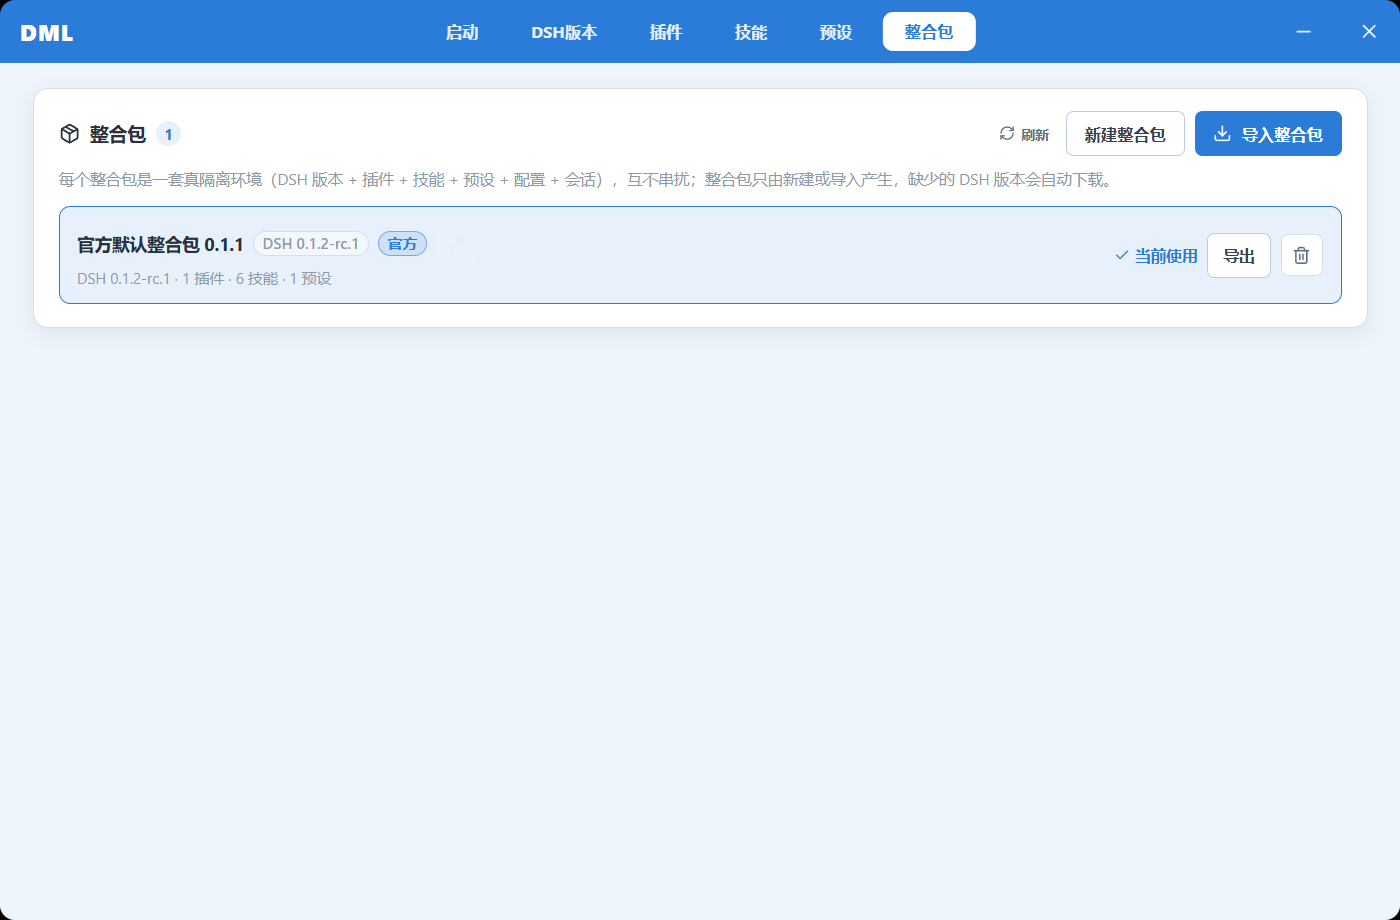
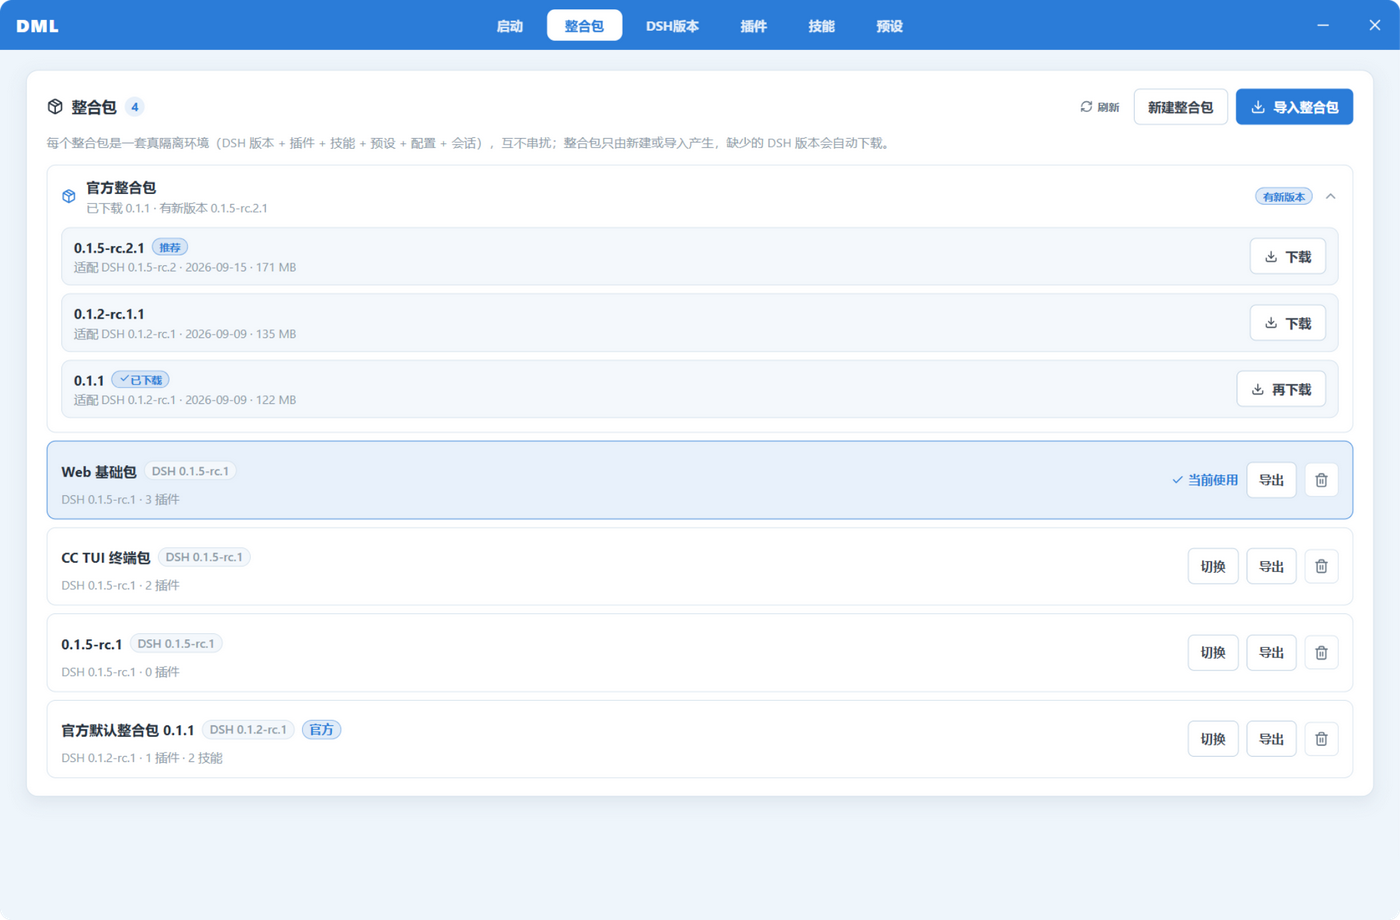
docs: v0.1.3 中英 README 更新（官方包版本流 / 下载进度与换源）+ 重拍截图 + 去掉 QQ 群信息
- 新增 v0.1.3 更新亮点段：官方整合包按版本可选、下载与导入全程可见、
  慢了自己换源、设置页镜像下拉
- 测试徽章 728 → 768；「官方默认整合包」「GitHub 加速」「快速开始」三处
  描述同步到新行为（进度条带速度与来源、导入阶段接着走、按实测速度换源）
- 界面速览重排：重拍整合包页（官方整合包堆叠展开），新增「下载进度」一图
- 中英 README 的「联系与反馈 / Upstream & contact」去掉官方 QQ 群，只留 Issues；
  启动器界面内的群信息已在上一笔提交里清掉

diff --git a/README.md b/README.md
@@ -14,7 +14,7 @@
 [![Build](https://img.shields.io/github/actions/workflow/status/Miyazawai/DSH-Melody-Launcher-Overture/build.yml?branch=main&style=for-the-badge&logo=githubactions&logoColor=white&label=build)](https://github.com/Miyazawai/DSH-Melody-Launcher-Overture/actions/workflows/build.yml)
 [![Platform](https://img.shields.io/badge/Platform-Windows%20x64-0078D6?style=for-the-badge&logo=windows&logoColor=white)](https://github.com/Miyazawai/DSH-Melody-Launcher-Overture/releases)
 [![Upstream](https://img.shields.io/badge/上游-rirko%2Fdsh--melody--launcher-6C7BFF?style=for-the-badge&logo=github&logoColor=white)](https://github.com/rirko/dsh-melody-launcher)
-[![Tests](https://img.shields.io/badge/tests-728%20passing-6E9F18?style=for-the-badge&logo=vitest&logoColor=white)](https://github.com/Miyazawai/DSH-Melody-Launcher-Overture)
+[![Tests](https://img.shields.io/badge/tests-768%20passing-6E9F18?style=for-the-badge&logo=vitest&logoColor=white)](https://github.com/Miyazawai/DSH-Melody-Launcher-Overture)
 
 [![Electron](https://img.shields.io/badge/Electron-43-47848F?style=flat-square&logo=electron&logoColor=white)](https://www.electronjs.org/)
 [![React](https://img.shields.io/badge/React-19-61DAFB?style=flat-square&logo=react&logoColor=black)](https://react.dev/)
@@ -50,13 +50,19 @@
 | 把自己的配置折腾半天分享给朋友 | 导出 = 整个环境打包成 zip，对方导入即可启动 |
 | 开终端、记命令、盯输出 | 一个按钮启动，进程与日志全程托管 |
 
+## v0.1.3 更新亮点
+
+- **官方整合包按版本可选** —— 整合包页顶部多了一个「官方整合包」堆叠入口，展开是所有历史版本（最新版标「推荐」，每行写着它**适配哪个 DSH 版本**与体积）。想装哪个装哪个，同一个版本重复下载会得到「(2)」副本；发现新版本只挂「有新版本」徽标提醒，不会在后台偷偷下几百 MB。
+- **下载全程可见，慢了自己换源** —— 下载时是带速度与来源的进度条（「50% · 3.4 MB/s · 经 gh-proxy.com」），下载完接着显示导入阶段（补装 DSH 运行时、解压一万多个文件），不再有「卡在 100%」的错觉。直连 8 秒无响应、20 秒断流、或速度低于 300KB/s 会**自动切到镜像**，不必再手动折腾代理。
+- **设置页网络更好配** —— 「GitHub 镜像」从裸文本框改成下拉（自动 / gh-proxy.com / ghfast.top / ghproxy.net / 自定义），选「自动」即走上一条的换源逻辑。
+
 ## v0.1.2 更新亮点
 
 - **「检查更新」修好了** —— 此前插件更新面板恒显示「当前为本地开发模式」并拒绝自动更新：启动器把整合包 Profile 的清单名写成了非官方前缀，被插件误判为本地开发链接。现已统一为 DSH 官方命名，**已有整合包会在启动时自动迁移，无需重装**。
 
 ## v0.1.1 更新亮点
 
-- **官方默认整合包** —— 首次启动自动获取导入：DSH 本体 + Web 全家桶界面 + Office 文档技能（Word / Excel / PPT）+ AI 去味写作技能，开箱即用。可以删，删了随时一键「恢复官方整合包」。
+- **官方默认整合包** —— 首次启动自动获取导入：DSH 本体 + Web 全家桶界面 + Office 文档技能（Word / Excel / PPT）+ AI 去味写作技能，开箱即用。可以删，删了在「官方整合包」里一点即可重新下载。
 - **快照式导出 / 导入** —— 把整合包连插件本体、依赖、技能、配置整个打成 zip；导出前自动剔除 API Key、会话记录等个人数据，绝对路径自动改写。**对方导入即可启动，全程不联网重装依赖。**
 - **Office 文档能力** —— 官方包内置 [OfficeCLI](https://github.com/iOfficeAI/OfficeCLI) 技能四件套与引擎本体（随包搬运）：对 AI 说一句「把这季度数据做成汇报 PPT」，就能拿到可继续编辑的 `.pptx` / `.docx` / `.xlsx`。
 - **运行态分段按钮** —— 浏览器页面关掉了？首页大按钮左段停止服务、右段一键重开网页。
@@ -68,22 +74,22 @@
 | --- | --- |
 | **启动页** —— AI 日报全栏目滚动、一键启动、当前整合包快切 | **运行中** —— 左段停止服务，右段一键重开网页 |
 | ![启动页](docs/screenshots/shot-01-home.png) | ![运行态](docs/screenshots/shot-09-running-split.png) |
-| **整合包** —— 官方默认包带「官方」徽标，计数实时探测 | **删除二次确认** —— 点删除变红「确定删除」，说清删什么留什么 |
-| ![整合包](docs/screenshots/shot-02-packs.png) | ![删除确认](docs/screenshots/shot-03-delete-arm.png) |
-| **技能管理** —— 官方包自带 Office 四件套与去味写作，可启停可卸载 | **技能市场** —— 1900+ 技能按分类浏览安装 |
-| ![技能管理](docs/screenshots/shot-05-skills-installed.png) | ![技能市场](docs/screenshots/shot-04-skill-market.png) |
-| **插件** —— 核心组合层受保护，启停不删本体 | **DSH Market** —— 3400+ 精选插件，搜索 / 分类 / 检查更新 |
-| ![插件](docs/screenshots/shot-06-plugins.png) | ![DSH Market](docs/screenshots/shot-08-dsh-market.png) |
-| **DSH 版本** —— 已装与可下载版本一目了然，切换只在整合包页 | |
-| ![DSH 版本](docs/screenshots/shot-07-versions.png) | |
+| **整合包** —— 顶部「官方整合包」堆叠列出所有历史版本，可删可重下 | **下载进度** —— 速度、来源与阶段全程可见，慢了自己换镜像 |
+| ![整合包](docs/screenshots/shot-02-packs.png) | ![下载进度](docs/screenshots/shot-10-official-pack-download.png) |
+| **删除二次确认** —— 点删除变红「确定删除」，说清删什么留什么 | **技能管理** —— 官方包自带 Office 四件套与去味写作，可启停可卸载 |
+| ![删除确认](docs/screenshots/shot-03-delete-arm.png) | ![技能管理](docs/screenshots/shot-05-skills-installed.png) |
+| **技能市场** —— 1900+ 技能按分类浏览安装 | **插件** —— 核心组合层受保护，启停不删本体 |
+| ![技能市场](docs/screenshots/shot-04-skill-market.png) | ![插件](docs/screenshots/shot-06-plugins.png) |
+| **DSH Market** —— 3400+ 精选插件，搜索 / 分类 / 检查更新 | **DSH 版本** —— 已装与可下载版本一目了然，切换只在整合包页 |
+| ![DSH Market](docs/screenshots/shot-08-dsh-market.png) | ![DSH 版本](docs/screenshots/shot-07-versions.png) |
 
 ## 核心特性
 
 ### 官方默认整合包：下载即有
 
-- **首启自动获取** —— 启动器后台核对版本，自动从 GitHub Release 拉取官方包 zip 并导入，进度可见，全程零操作
+- **首启自动获取、进度全程可见** —— 启动器后台核对版本，自动从 GitHub Release 拉取官方包 zip 并导入，下载有带速度与来源的进度条、导入阶段接着显示，全程零操作
 - **内容基线** —— Web 全家桶界面（任务板 / Git 图 / 皮肤中心 / 社区插件…）、Office 文档技能（含 33MB 引擎随包搬运）、去 AI 味中文写作技能
-- **可删可恢复** —— 官方包没有特权，删了整合包页出现「恢复官方整合包」按钮；启动器更新带来新版官方包时，新包自动出现、旧包并存不覆盖
+- **可删可恢复、按版本可选** —— 官方包没有特权，删了在整合包页顶部的「官方整合包」里一点即可重下；那个堆叠里列着所有历史版本（最新版标「推荐」），想装哪个装哪个，同一个版本重复下载会得到「(2)」副本。有新版本时只挂个「有新版本」徽标提醒你，不会在后台偷偷下几百 MB
 
 ### 整合包：真隔离环境
 
@@ -95,7 +101,7 @@
 
 - **自动准备 Node.js / pnpm** —— 启动器自带便携运行时（SHA-256 校验、断点续传），不需要系统装 Node
 - **自动准备 DSH** —— 导入的包缺 DSH 版本时弹窗确认后自动补装
-- **GitHub 加速** —— DSH 版本列表、插件目录、官方包下载统一走「用户镜像 → 直连 → 公共镜像」候选链，大陆网络可用
+- **GitHub 加速** —— DSH 版本列表、插件目录、官方包下载统一走「用户镜像 → 直连 → 公共镜像」候选链；官方包这类百 MB 资产还会按**实测速度**换源：等首字节超时、中途断流、均速低于 300KB/s 任一命中就切下一个源，大陆网络可用
 
 ### 启动与进程管理
 
@@ -120,7 +126,7 @@
 
 ### 2. 等官方包就位
 
-首次启动会自动下载导入「官方默认整合包」（约 128MB，含 DSH 本体与全部资源；整合包页顶部有进度横幅）。完成后首页显示当前整合包为「官方默认整合包」。
+首次启动会自动下载导入「官方默认整合包」（约 120MB，含 DSH 本体与全部资源；整合包页顶部有带速度与来源的进度条，接着显示导入阶段）。完成后首页显示当前整合包为「官方默认整合包」。之后官方包跟随 `@linxin666/dsh-web-all` 发版自动出新版本，启动器只会提醒、由你决定什么时候下载。
 
 ### 3. 填 Key，启动
 
@@ -173,7 +179,6 @@ npm run package:win   # 打包 Windows 便携 exe
 
 ## 联系与反馈
 
-- 官方用户 QQ 群：**625155044**（欢迎一起开发，QQ：1250104511）
 - 问题反馈请开 [Issue](https://github.com/Miyazawai/DSH-Melody-Launcher-Overture/issues)，附上启动器版本与复现步骤
 
 ---

diff --git a/README.en.md b/README.en.md
@@ -23,6 +23,12 @@ Download one executable: the first run auto-imports the **official default modpa
 > [!NOTE]
 > **Overture** is the C-end ("modpack-first") line of [rirko/dsh-melody-launcher](https://github.com/rirko/dsh-melody-launcher). The upstream repo hosts the mainline; this branch focuses on the first-km experience for individual players: zero-dependency onboarding, per-pack isolation, whole-pack sharing. See the [Chinese README](README.md) for the full documentation.
 
+## What's new in v0.1.3
+
+- **Pick the official modpack version you want** — the Modpacks page now has an "official modpack" stack listing every published version (latest marked *Recommended*, each row showing the **DSH version it targets** and its size). Re-downloading a version gives you a `(2)` copy; a new release only raises a badge — nothing heavy is downloaded behind your back.
+- **The whole download is visible, and a slow link switches itself** — a progress bar with live speed and source ("50% · 3.4 MB/s · via gh-proxy.com"), followed by the import stages (installing the missing DSH runtime, unpacking ~16k files), so it no longer looks stuck at 100%. Direct connections that stall for 8s, break for 20s, or drop under 300 KB/s **fail over to a mirror automatically** — no proxy fiddling required.
+- **Easier network setup** — the GitHub mirror setting is now a dropdown (Auto / gh-proxy.com / ghfast.top / ghproxy.net / Custom); "Auto" is the failover described above.
+
 ## What's new in v0.1.2
 
 - **Plugin auto-update works again** — the update panel used to show "Local development mode" forever and refuse to update: the launcher wrote a non-official manifest name for the modpack Profile, which plugins read as a local dev link. Names now follow DSH's own convention, and **existing modpacks are migrated automatically on startup — no reinstall needed**.
@@ -40,17 +46,19 @@ Download one executable: the first run auto-imports the **official default modpa
 | Home | Running (split button) |
 | --- | --- |
 | ![Home](docs/screenshots/shot-01-home.png) | ![Running](docs/screenshots/shot-09-running-split.png) |
-| **Modpacks** (official badge + live counters) | **Delete confirmation** (arm-then-confirm, never a dialog) |
-| ![Modpacks](docs/screenshots/shot-02-packs.png) | ![Delete arm](docs/screenshots/shot-03-delete-arm.png) |
-| **Skills** (Office suite included, uninstall built in) | **Skill Market** (1,900+ skills) |
-| ![Skills](docs/screenshots/shot-05-skills-installed.png) | ![Skill Market](docs/screenshots/shot-04-skill-market.png) |
-| **Plugins** (core bundles protected) | **DSH Market** (3,400+ featured plugins) |
-| ![Plugins](docs/screenshots/shot-06-plugins.png) | ![DSH Market](docs/screenshots/shot-08-dsh-market.png) |
+| **Modpacks** (official stack with every version) | **Download progress** (speed, source, stage — auto failover) |
+| ![Modpacks](docs/screenshots/shot-02-packs.png) | ![Download progress](docs/screenshots/shot-10-official-pack-download.png) |
+| **Delete confirmation** (arm-then-confirm, never a dialog) | **Skills** (Office suite included, uninstall built in) |
+| ![Delete arm](docs/screenshots/shot-03-delete-arm.png) | ![Skills](docs/screenshots/shot-05-skills-installed.png) |
+| **Skill Market** (1,900+ skills) | **Plugins** (core bundles protected) |
+| ![Skill Market](docs/screenshots/shot-04-skill-market.png) | ![Plugins](docs/screenshots/shot-06-plugins.png) |
+| **DSH Market** (3,400+ featured plugins) | **DSH versions** (installed vs. available) |
+| ![DSH Market](docs/screenshots/shot-08-dsh-market.png) | ![DSH versions](docs/screenshots/shot-07-versions.png) |
 
 ## Highlights
 
 - **Modpacks = real isolation** — each pack gets a derived home directory; DSH version, plugins, skills, presets and sessions never leak across packs.
-- **Zero-dependency onboarding** — the launcher downloads DSH, a portable Node.js runtime (SHA-256 verified, resumable) and a private pnpm automatically. GitHub traffic goes through a mirror-first candidate chain for mainland-China networks.
+- **Zero-dependency onboarding** — the launcher downloads DSH, a portable Node.js runtime (SHA-256 verified, resumable) and a private pnpm automatically. GitHub traffic goes through a mirror-first candidate chain, and the 100 MB+ official modpack additionally **fails over by measured speed**: a stalled first byte, a 20s silence or an average below 300 KB/s switches to the next source.
 - **Curated markets** — DSH Market (3,400+ featured plugins) and a Skill Market (1,900+ skills), with strict `SKILL.md` validation and enable/disable that never deletes files.
 - **One-click launch** — starts `dsh --profile <pack> --no-open --port N`, opens the browser when ready; crashes surface as a dialog with exit code, stderr and a copyable "fix prompt".
 - **AI Daily** — the home page aggregates the day's AI news into all sections, scrollable in place.
@@ -58,7 +66,7 @@ Download one executable: the first run auto-imports the **official default modpa
 ## Getting started
 
 1. Grab `DSH-Launcher-*-portable.exe` from [**Releases**](https://github.com/Miyazawai/DSH-Melody-Launcher-Overture/releases). The binary is not code-signed yet, so SmartScreen may warn — verify it comes from this repo, then choose "More info → Run anyway".
-2. Wait for the first-run import of the official modpack (~128 MB, progress shown on the Modpacks page).
+2. Wait for the first-run import of the official modpack (~128 MB; the Modpacks page shows a progress bar with speed and source, then the import stages).
 3. Add your DeepSeek (or other) API key in **Settings** — keys are stored per-pack and never leave your machine in exports.
 4. Hit **Launch DSH**. Try: *"create a pptx titled Quarterly Report with one bullet slide"* — the Office skills handle it.
 
@@ -92,7 +100,7 @@ npm run package:win   # portable exe
 
 - Mainline: [rirko/dsh-melody-launcher](https://github.com/rirko/dsh-melody-launcher) — plugin-catalog PRs still target upstream.
 - This repo: the Overture release line — portable exe and official modpack zips ship from its Releases.
-- QQ group **625155044** · issues welcome with launcher version and repro steps.
+- Issues welcome with launcher version and repro steps.
 
 ---
 

diff --git a/CHANGELOG.md b/CHANGELOG.md
@@ -2,6 +2,30 @@
 
 本文件记录 DSH 旋律启动器（dsh-melody-launcher）的版本变更。格式参考 [Keep a Changelog](https://keepachangelog.com/zh-CN/1.1.0/)，版本语义遵循 [Semantic Versioning](https://semver.org/lang/zh-CN/)。
 
+## [v0.1.3] - 2026-09-19 — 官方整合包按版本可选 · 下载进度与自动换源
+
+### 新增功能
+
+- **官方整合包按版本可选**：整合包页多了一个「官方整合包」折叠堆叠入口，展开是各版本的官方默认整合包（最新版标「推荐」），每一项可直接下载导入成可用的整合包。官方包版本号改成「**适配的 DSH 版本 + 序号**」（如 `0.1.5-rc.2.1`），看版本号就知道它适配哪个 DSH。
+- **官方包出包全自动化**：新增 `.github/workflows/official-pack.yml` 与 `npm run pack:official`（`scripts/build-official-pack.mts`）。判据只看 `@linxin666/dsh-web-all` 是否发新版——它一发版就自动重新构建并挂到 Release，officecli 顺带升到当时最新；officecli 单独发版不会刷包（避免频繁出新包）。基线资产（技能、settings、皮肤状态、包管理器配置）进了仓库 `official-pack/`，出包不再依赖维护者本机。
+- **官方包导入后外观自动回原生**：导入官方包后统一把外观钉回 DSH 原生无皮肤无壁纸（`{ active: null, initialized: true }`）；只在导入时写一次，用户之后自己挑的不会被覆盖。
+- **官方整合包下载有可视化进度条**：整合包页在下载时显示百分比进度条 + 已下载/总量 + 实时速度 + 当前下载源（例如「经 gh-proxy.com」），不再只有一行文字。
+- **下载之后的导入阶段同样有进度**：下载完成不等于装好——后面还有写盘、补装缺失的 DSH 运行时（约 100MB）、解压一万多个文件；以前这几段是静默的，进度条停在 100% 让人以为卡死。现在进度条会顺着阶段走下去（「正在准备 DSH 0.1.5-rc.2 依赖 · 64%」→「正在解压快照包… · 97%」），没有字节进度的阶段用不确定态动画并给出说明。
+- **下载自动换源（面向国内网络）**：百 MB 级的官方包下载带三重守卫——8 秒等不到首字节、中途断流 20 秒、5 秒观测窗口内均速低于 300KB/s，都自动切下一个源（用户配置的镜像 → GitHub 直连 → 内置公共镜像）；若所有源都慢，则按实测速度挑最快的一条跑完，不会因慢反复换源。设置页的「GitHub 镜像」同时从裸文本框改成预设下拉（gh-proxy.com / ghfast.top / ghproxy.net / 自定义）。
+
+### 修复
+
+- **「适配 DSH」不再猜**：旧命名的官方资产（`official-pack-v0.1.1.zip`）名字里没编码 DSH 版本、Release 正文也没有构建元信息，此前会拿包版本号冒充，界面上出现「适配 DSH 0.1.1」这种假信息（实际适配 0.1.2-rc.1）。现在读不出就标「适配 DSH 未标注」，能用本机已装这个包的真实绑定版本补上则补。
+- **同名重复导入的整合包显示重名**：`importPackDisplayName` 此前拿显示名反推包 id 前缀来算「(2)」后缀，而中文显示名经 `packProfileName` 会被替换成一串 `-`、快照导入的 id 又来自包内 `profileId`，两者对不上 → 后缀算不出来，列表里出现两个一模一样的「官方默认整合包 x.y.z」。改为直接用「加序号前后的两个 id」比对。
+- **已装版本的官方包短路够早**：`ensureOfficialPackVersion` 现在先查注册表再联网，本机已有该版本时一次网络请求都不发。
+
+### 变更
+
+- 首页品牌区不再显示官方用户 QQ 群（设置弹窗「关于」同步去掉）。
+- 「官方整合包」发现新版本**只提醒、不自动下载**（堆叠入口挂「有新版本」徽标），把几百 MB 的下载决定权交回用户；**本机一个官方包都没有**的全新用户仍自动导入推荐版本，保证开箱可用。
+- 独立「恢复官方整合包」按钮并入堆叠入口；仅在版本列表读不到（断网/限流）且本机没有官方包时作为兜底保留。
+- `OFFICIAL_PACK_VERSION` 从「钉死官方包版本」退化为「Release 列表读不到时的内置兜底」，实际推荐版本以 Release 上最新的官方包为准。
+
 ## [v0.1.2] - 2026-09-10 — 检查更新修复 · 便携版 logo 修复
 
 ### 修复
